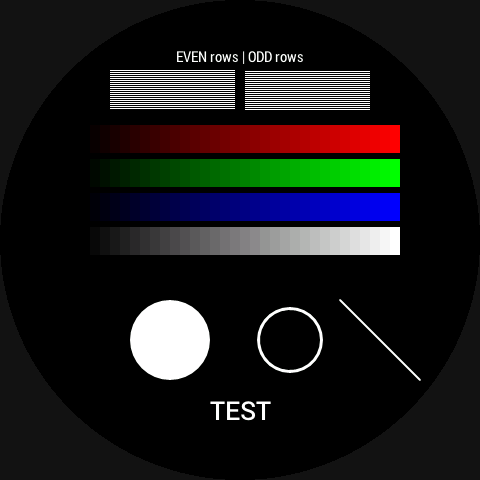
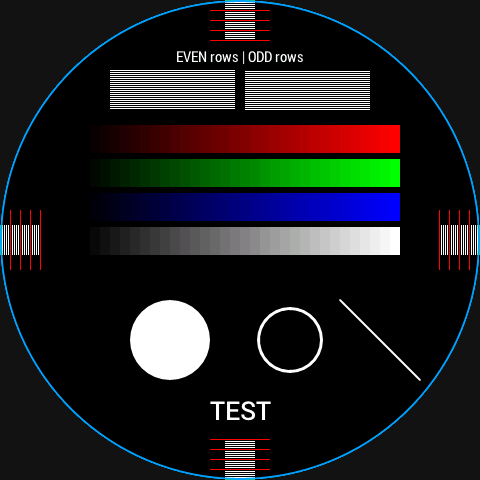
Rename to TrailDash; signing from Config.xcconfig instead of the project
The device is a dash display now, not just an inclinometer. Team ID and
bundle ID move out of project.pbxproj into a gitignored Local.xcconfig so
the repo can be public and others can sign with their own team.

diff --git a/ios/TrailDashLink/DeviceSettingsView.swift b/ios/TrailDashLink/DeviceSettingsView.swift
@@ -1,6 +1,6 @@
 import SwiftUI
 
-/// The inclinometer's own settings, live over Bluetooth. Every change applies on the device at
+/// TrailDash's own settings, live over Bluetooth. Every change applies on the device at
 /// once (no Save button, like iOS Settings) and is stored in config.txt on its SD card.
 struct DeviceSettingsView: View {
     @EnvironmentObject private var link: LinkManager
@@ -14,7 +14,7 @@ struct DeviceSettingsView: View {
                     ToolbarItem(placement: .topBarTrailing) { ProgressView() }
                 }
             }
-            .alert("Inclinometer", isPresented: errorShown) {
+            .alert("TrailDash", isPresented: errorShown) {
                 Button("OK", role: .cancel) {}
             } message: {
                 Text(link.configError ?? "")
@@ -30,7 +30,7 @@ struct DeviceSettingsView: View {
             ContentUnavailableView {
                 Label("Not Connected", systemImage: "antenna.radiowaves.left.and.right.slash")
             } description: {
-                Text("Settings appear here as soon as the inclinometer connects. Turn on the ignition and keep the phone nearby.")
+                Text("Settings appear here as soon as TrailDash connects. Turn on the ignition and keep the phone nearby.")
             }
         case .loading:
             ProgressView("Reading settings…")
@@ -39,7 +39,7 @@ struct DeviceSettingsView: View {
             ContentUnavailableView {
                 Label("Firmware Update Needed", systemImage: "arrow.down.circle")
             } description: {
-                Text("This inclinometer firmware can't be configured from the app. Flash the latest firmware, or edit config.txt on its SD card.")
+                Text("This TrailDash firmware can't be configured from the app. Flash the latest firmware, or edit config.txt on its SD card.")
             }
         case .ready:
             SettingsForm()
@@ -64,7 +64,7 @@ private struct SettingsForm: View {
             if !config.hasCard {
                 Section {
                     Label {
-                        Text("No SD card in the inclinometer. Changes work now but are lost when it powers off.")
+                        Text("No SD card in TrailDash. Changes work now but are lost when it powers off.")
                     } icon: {
                         Image(systemName: "sdcard").foregroundStyle(.orange)
                     }
@@ -331,7 +331,7 @@ private struct SpeedCorrectionSection: View {
         } header: {
             Text("Car Speed")
         } footer: {
-            Text("Corrects the speed read from the car (wrong tyre size, speedometer error): +8 % makes it 8 % higher. Drive a few km above 20 km/h with the phone connected, then enter the value the inclinometer's speed check screen suggests.")
+            Text("Corrects the speed read from the car (wrong tyre size, speedometer error): +8 % makes it 8 % higher. Drive a few km above 20 km/h with the phone connected, then enter the value TrailDash's speed check screen suggests.")
         }
         .onAppear { draft = Self.text(percent) }
         .onChange(of: percent) { _, new in if !editing { draft = Self.text(new) } }
@@ -382,7 +382,7 @@ private struct OBDSection: View {
         } header: {
             Text("OBD Adapter")
         } footer: {
-            Text("Part of the adapter's Bluetooth name, only needed if it isn't found automatically. Logging maker data (probe.txt) takes effect the next time the inclinometer starts and slows the engine values a little.")
+            Text("Part of the adapter's Bluetooth name, only needed if it isn't found automatically. Logging maker data (probe.txt) takes effect the next time TrailDash starts and slows the engine values a little.")
         }
         .onAppear { draft = name }
         .onChange(of: name) { _, new in if !editing { draft = new } }

diff --git a/ios/TrailDashLink/LinkManager.swift b/ios/TrailDashLink/LinkManager.swift
@@ -2,11 +2,11 @@ import Foundation
 import CoreBluetooth
 import CoreLocation
 
-/// Streams GPS speed + course to the inclinometer over BLE, also while the phone is locked.
+/// Streams GPS speed + course to TrailDash over BLE, also while the phone is locked.
 ///
-/// Location services run ONLY while the inclinometer is connected:
+/// Location services run ONLY while TrailDash is connected:
 ///  - `bluetooth-central` background mode + state restoration: iOS keeps a pending connect
-///    to the remembered device. When the car powers the inclinometer up, iOS wakes (or
+///    to the remembered device. When the car powers TrailDash up, iOS wakes (or
 ///    relaunches) the app in the background and the connection completes.
 ///  - On connect, GPS starts (`location` background mode keeps the app running). Starting
 ///    it from the background needs "Always" permission. On disconnect, GPS stops and the
@@ -67,7 +67,7 @@ final class LinkManager: NSObject, ObservableObject {
         static let enabled = "enabled"
         static let relaunch = "relaunchAfterSwipe"
         static let peripheral = "peripheralID"
-        static let restore = "InclinoLink.central"
+        static let restore = "TrailDashLink.central"
     }
 
     private var central: CBCentralManager!
@@ -102,7 +102,7 @@ final class LinkManager: NSObject, ObservableObject {
         locationAuth = location.authorizationStatus
         central = CBCentralManager(delegate: self, queue: nil,
                                    options: [CBCentralManagerOptionRestoreIdentifierKey: Keys.restore])
-        location.stopUpdatingLocation()   // GPS starts only once the inclinometer is connected
+        location.stopUpdatingLocation()   // GPS starts only once TrailDash is connected
         if enabled { start() }
     }
 
@@ -136,7 +136,7 @@ final class LinkManager: NSObject, ObservableObject {
         return auth == .authorizedWhenInUse || auth == .authorizedAlways
     }
 
-    /// GPS on — only called while the inclinometer is connected.
+    /// GPS on — only called while TrailDash is connected.
     private func startLocation() {
         guard enabled, locationAllowed else { return }
         location.allowsBackgroundLocationUpdates = true
@@ -168,7 +168,7 @@ final class LinkManager: NSObject, ObservableObject {
         if central.state == .poweredOn { bleState = .searching }
     }
 
-    /// Forget the paired device and look for any inclinometer again.
+    /// Forget the paired device and look for any TrailDash again.
     func forgetDevice() {
         if let p = peripheral { central.cancelPeripheralConnection(p) }
         peripheral = nil
@@ -188,7 +188,7 @@ final class LinkManager: NSObject, ObservableObject {
             return
         }
         // Remembered device: a pending connect never times out, so iOS reconnects
-        // whenever the inclinometer comes into range — even in the background.
+        // whenever TrailDash comes into range — even in the background.
         if let id = savedPeripheralID, let p = central.retrievePeripherals(withIdentifiers: [id]).first {
             connect(p)
             return
@@ -265,7 +265,7 @@ final class LinkManager: NSObject, ObservableObject {
     }
 
     #if DEBUG
-    /// A pretend inclinometer for SwiftUI previews and the simulator (launch argument
+    /// A pretend TrailDash for SwiftUI previews and the simulator (launch argument
     /// `-demoDevice`): settings can be edited, nothing is sent.
     private var demo = false
 

diff --git a/ios/TrailDashLink/ContentView.swift b/ios/TrailDashLink/ContentView.swift
@@ -19,7 +19,7 @@ struct ContentView: View {
                         .listRowBackground(Color.clear)
                 }
 
-                Section("Inclinometer") {
+                Section("TrailDash") {
                     row("Bluetooth", link.bleState.rawValue, color: bleColor)
                     if let name = link.deviceName { row("Device", name) }
                     row("Packets sent", "\(link.packetsSent)")
@@ -45,7 +45,7 @@ struct ContentView: View {
                         Button("Allow location") { link.requestLocationIfNeeded() }
                     }
                     if link.locationAuth == .authorizedWhenInUse {
-                        Text("Set Location to **Always** — needed to start GPS when the inclinometer connects while the phone is locked.")
+                        Text("Set Location to **Always** — needed to start GPS when TrailDash connects while the phone is locked.")
                             .font(.footnote)
                             .foregroundStyle(.orange)
                     }
@@ -59,17 +59,17 @@ struct ContentView: View {
                 } header: {
                     Text("GPS")
                 } footer: {
-                    Text("GPS runs only while the inclinometer is connected — also with the phone locked. When the car powers up, iOS wakes the app and it reconnects by itself.")
+                    Text("GPS runs only while TrailDash is connected — also with the phone locked. When the car powers up, iOS wakes the app and it reconnects by itself.")
                 }
 
                 Section {
-                    Toggle("Send speed to inclinometer", isOn: $link.enabled)
+                    Toggle("Send speed to TrailDash", isOn: $link.enabled)
                     Toggle("Restart after swipe-away", isOn: $link.relaunchAfterSwipe)
                 } footer: {
                     Text("iOS won't reopen a swiped-away app for Bluetooth. This option lets it reopen after you drive a few hundred metres, using low-power location — the location arrow then stays on all the time.")
                 }
             }
-            .navigationTitle("InclinoLink")
+            .navigationTitle("TrailDash Link")
             .navigationDestination(isPresented: $showSettings) { DeviceSettingsView() }
             .onChange(of: scenePhase) { _, phase in
                 if phase == .active { link.requestLocationIfNeeded() }

diff --git a/ios/TrailDashLink/DeviceConfig.swift b/ios/TrailDashLink/DeviceConfig.swift
@@ -1,6 +1,6 @@
 import Foundation
 
-/// The inclinometer's settings as read over BLE — keep in sync with src/ble.h (CFG_*) and
+/// TrailDash's settings as read over BLE — keep in sync with src/ble.h (CFG_*) and
 /// src/settings.cpp. The wire format is the device's config.txt syntax: "key=value" lines.
 ///
 /// Settings are kept as text, keyed like config.txt, so the app shows only what the connected
@@ -78,9 +78,9 @@ enum DeviceLinkError: LocalizedError {
 
     var errorDescription: String? {
         switch self {
-        case .notConnected: "The inclinometer isn't connected."
-        case .busy: "The inclinometer is still busy with the last request."
-        case .unsupported: "The inclinometer firmware is too old for this."
+        case .notConnected: "TrailDash isn't connected."
+        case .busy: "TrailDash is still busy with the last request."
+        case .unsupported: "The TrailDash firmware is too old for this."
         }
     }
 }

diff --git a/tools/gen_appicon.swift b/tools/gen_appicon.swift
@@ -1,8 +1,8 @@
-// Renders the InclinoLink iOS app icon (1024x1024, opaque PNG).
+// Renders the TrailDashLink iOS app icon (1024x1024, opaque PNG).
 //
-//   swift tools/gen_appicon.swift ios/InclinoLink/Assets.xcassets/AppIcon.appiconset/AppIcon.png
+//   swift tools/gen_appicon.swift ios/TrailDashLink/Assets.xcassets/AppIcon.appiconset/AppIcon.png
 //
-// Same visual language as the inclinometer UI: dark dial, green/amber/red tilt
+// Same visual language as the TrailDash UI: dark dial, green/amber/red tilt
 // scale, cyan pointer and the tilted rear-view SUV.
 import Foundation
 import CoreGraphics

diff --git a/ios/TrailDashLink/NavProtocol.swift b/ios/TrailDashLink/NavProtocol.swift
@@ -1,7 +1,7 @@
 import CoreBluetooth
 import CoreLocation
 
-/// Wire format shared with the inclinometer firmware — keep in sync with src/ble.h.
+/// Wire format shared with the TrailDash firmware — keep in sync with src/ble.h.
 enum NavProtocol {
     static let service = CBUUID(string: "CCCF9685-6127-47E1-9884-2E68EF1D44A3")
     static let characteristic = CBUUID(string: "1CCA3ED6-DCF2-4A66-A435-AB5016547E5A")

diff --git a/ios/TrailDashLink/TrailDashLinkApp.swift b/ios/TrailDashLink/TrailDashLinkApp.swift
@@ -1,7 +1,7 @@
 import SwiftUI
 
 @main
-struct InclinoLinkApp: App {
+struct TrailDashLinkApp: App {
     // Created at process start — also on background relaunches (BLE restore,
     // significant location change), where no UI is built.
     @StateObject private var link = LinkManager.shared

diff --git a/remote/src/main.cpp b/remote/src/main.cpp
@@ -5,10 +5,10 @@
 //
 // Reads the IMU at 250 Hz, removes the gyro bias (measured at power-up while the car
 // stands still, remembered in flash for power-ups while driving), and sends batches of
-// 10 samples to the inclinometer over BLE (~25 packets/s). All filtering, mounting and
-// "set level" happen on the inclinometer, exactly as for its built-in IMU.
+// 10 samples to TrailDash over BLE (~25 packets/s). All filtering, mounting and
+// "set level" happen on TrailDash, exactly as for its built-in IMU.
 //
-// LED: fast blink = searching for the inclinometer, short flash every 3 s = connected.
+// LED: fast blink = searching for TrailDash, short flash every 3 s = connected.
 // Serial (115200): status every 2 s.
 #include <Arduino.h>
 #include <Wire.h>
@@ -111,7 +111,7 @@ static void calibrateBias() {
     Serial.printf("[imu] moving at power-up (spread %.2f): stored gyro bias %+.2f %+.2f %+.2f\n", sd, bias[0],
                   bias[1], bias[2]);
   } else {
-    Serial.printf("[imu] moving at power-up (spread %.2f) and no stored bias - the inclinometer will learn it\n", sd);
+    Serial.printf("[imu] moving at power-up (spread %.2f) and no stored bias - TrailDash will learn it\n", sd);
   }
   p.end();
 }
@@ -135,7 +135,7 @@ class ScanCb : public NimBLEScanCallbacks {
     if (found || !d->isAdvertisingService(NimBLEUUID(IMU_LINK_ADV_UUID))) return;
     target = d->getAddress();
     found = true;
-    Serial.printf("[ble] found inclinometer %s rssi %d\n", target.toString().c_str(), d->getRSSI());
+    Serial.printf("[ble] found TrailDash %s rssi %d\n", target.toString().c_str(), d->getRSSI());
     NimBLEDevice::getScan()->stop();
   }
 };
@@ -152,7 +152,7 @@ static bool connect() {
   NimBLERemoteService* svc = client->getService(IMU_SERVICE_UUID);
   NimBLERemoteCharacteristic* c = svc ? svc->getCharacteristic(IMU_CHAR_UUID) : nullptr;
   if (!c || !c->canWriteNoResponse()) {
-    Serial.println("[ble] inclinometer has no remote-IMU characteristic (old firmware?)");
+    Serial.println("[ble] TrailDash has no remote-IMU characteristic (old firmware?)");
     client->disconnect();
     return false;
   }
@@ -220,7 +220,7 @@ void setup() {
   }
   calibrateBias();
 
-  NimBLEDevice::init("Inclinometer IMU");
+  NimBLEDevice::init("TrailDash IMU");
   NimBLEDevice::setMTU(IMU_LINK_HDR + IMU_LINK_MAX_SAMPLES * IMU_LINK_SAMPLE + 3);
   NimBLEDevice::setPower(9);   // dBm; the car is small but full of metal
   NimBLEScan* scan = NimBLEDevice::getScan();

diff --git a/src/main.cpp b/src/main.cpp
@@ -1,4 +1,4 @@
-// Car inclinometer for the Waveshare ESP32-S3-Touch-LCD-2.8C
+// TrailDash car dash display for the Waveshare ESP32-S3-Touch-LCD-2.8C
 //
 //  Tap            next screen   (dual gauge -> speed -> peaks)
 //  Hold 2 s       set level (park on flat ground first; stored in flash, screen blinks)
@@ -707,7 +707,7 @@ static void showSplash(const char* l1, const char* l2) {
 void setup() {
   Serial.begin(115200);
   delay(50);
-  Serial.printf("\n[boot] inclinometer  PSRAM %u KB free\n", (unsigned)(ESP.getFreePsram() / 1024));
+  Serial.printf("\n[boot] TrailDash  PSRAM %u KB free\n", (unsigned)(ESP.getFreePsram() / 1024));
   pinMode(PIN_BOOT_BTN, INPUT_PULLUP);
 
   gfx.beginRecord();   // allocate the display list early so it lands in internal RAM
@@ -732,7 +732,7 @@ void setup() {
   // boot badge: fade in, hold (~2 s on screen in total), fade out; the render
   // task fades the first real frame in (backlight starts "off" there)
   constexpr uint32_t SPLASH_MS = 2000, FADE_IN_MS = 600, FADE_OUT_MS = 500;
-  showSplash("INCLINOMETER", "starting...");
+  showSplash("TRAILDASH", "starting...");
   board::waitFrame();
   board::fadeBacklight(0, cfg.backlight, FADE_IN_MS);
 

diff --git a/shared/imu_link.h b/shared/imu_link.h
@@ -1,14 +1,14 @@
-// Remote IMU link: XIAO ESP32-C6 + MPU-6050/6500 (remote/) -> inclinometer (src/).
+// Remote IMU link: XIAO ESP32-C6 + MPU-6050/6500 (remote/) -> TrailDash (src/).
 // Shared by both firmwares — change it in one place only.
 //
-// The remote is the BLE central: it scans for the inclinometer (which advertises
+// The remote is the BLE central: it scans for TrailDash (which advertises
 // NAV_SERVICE_UUID, see src/ble.h), connects, and writes batches of raw samples
-// without response to IMU_CHAR_UUID, ~25 times a second. The inclinometer runs its
+// without response to IMU_CHAR_UUID, ~25 times a second. TrailDash runs its
 // own tilt filter and level calibration on them, exactly as for the built-in IMU.
 #pragma once
 #include <stdint.h>
 
-// What the inclinometer advertises (= NAV_SERVICE_UUID in src/ble.h); the remote scans for it.
+// What TrailDash advertises (= NAV_SERVICE_UUID in src/ble.h); the remote scans for it.
 #define IMU_LINK_ADV_UUID "CCCF9685-6127-47E1-9884-2E68EF1D44A3"
 // Service + characteristic the remote writes to (not advertised, found after connecting).
 #define IMU_SERVICE_UUID "65782F4E-DE29-444B-A97D-F39CCFCD31B0"

diff --git a/src/config.h b/src/config.h
@@ -1,6 +1,6 @@
 #pragma once
 // ============================================================================
-//  Car inclinometer — Waveshare ESP32-S3-Touch-LCD-2.8C
+//  TrailDash car dash display — Waveshare ESP32-S3-Touch-LCD-2.8C
 // ============================================================================
 
 // ---------------- user settings ----------------
@@ -27,7 +27,7 @@
 #define STATE_SAVE_S         30      // trip/max speed saved at most this often (peaks: within 2 s)
 
 // GPS speed screen (data from the iPhone app over BLE)
-#define BLE_DEVICE_NAME      "Inclinometer"
+#define BLE_DEVICE_NAME      "TrailDash"
 #define NAV_STALE_MS         3000    // no packet for this long -> show "--"
 #define TRIP_MIN_KMH         2.0f    // below this, speed counts as 0 (GPS jitter when parked)
 #define MAX_SPEED_ACC_KMH    5.0f    // max speed only from fixes with speed accuracy better than this

diff --git a/src/ble.h b/src/ble.h
@@ -1,9 +1,9 @@
-// BLE link to the iPhone app (ios/InclinoLink): the phone connects as a central
+// BLE link to the iPhone app (ios/TrailDashLink): the phone connects as a central
 // and writes GPS speed + course to one characteristic, about once per second.
 #pragma once
 #include <stdint.h>
 
-// Shared with the iOS app — keep in sync with ios/InclinoLink/NavProtocol.swift
+// Shared with the iOS app — keep in sync with ios/TrailDashLink/NavProtocol.swift
 #define NAV_SERVICE_UUID "CCCF9685-6127-47E1-9884-2E68EF1D44A3"
 #define NAV_CHAR_UUID    "1CCA3ED6-DCF2-4A66-A435-AB5016547E5A"
 
